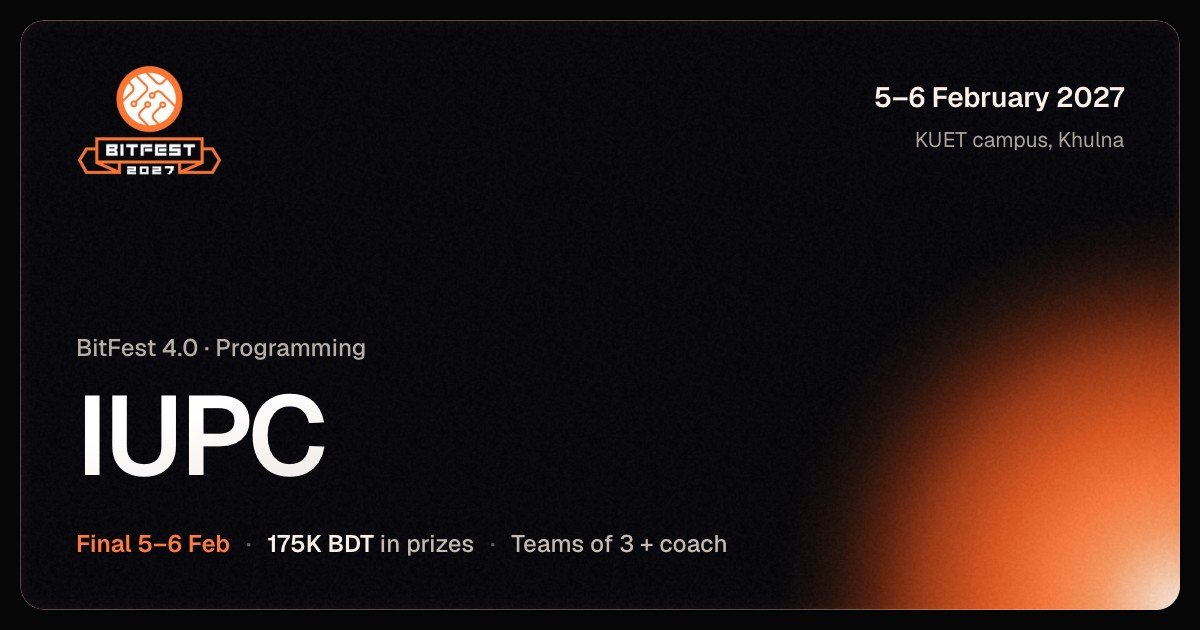
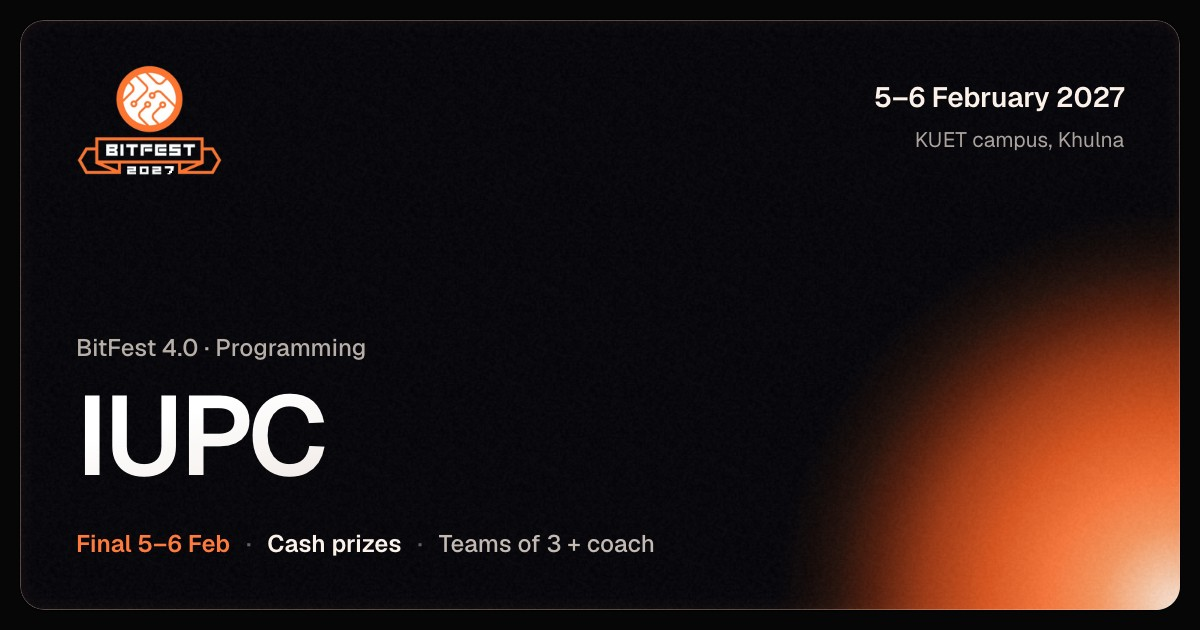
Contest names hover without linking, prize amounts show ?? until announced
- Two switches in lib/fest.ts. CONTEST_PAGES_LIVE (off): contest names in
  the hero pins, key dates, programme and footer keep their hover but go
  nowhere; contest pages stay out of search results and the sitemap.
  PRIZES_ANNOUNCED (off): every amount shows "??" and sentences say
  "cash prizes".
- Social preview cards re-rendered without prize figures.

Changed region(s): [[0.2158, 0.8444, 0.6167, 0.8746]]

diff --git a/components/home/schedule/ScheduleTraces.tsx b/components/home/schedule/ScheduleTraces.tsx
@@ -1,7 +1,8 @@
 "use client";
 
 import { useRef } from "react";
-import { eventHref, events, fest, isExternal, pad2, prizes, schedule } from "@/lib/fest";
+import { CONTEST_PAGES_LIVE, PRIZES_ANNOUNCED, events, fest, money, pad2, prizes, schedule } from "@/lib/fest";
+import ContestLink from "@/components/ui/ContestLink";
 import SectionHead from "../SectionHead";
 import { useActiveEvent } from "../heroes/variants/useActiveEvent";
 import { KIND_LABEL, dayLabel, detail, range } from "./data";
@@ -38,7 +39,7 @@ export default function ScheduleTraces() {
     <section ref={sec} id="schedule" className="relative scroll-mt-20 overflow-hidden py-20 md:py-36">
       <div aria-hidden className="hero-dots pointer-events-none absolute inset-0 opacity-60" />
       <div className="relative mx-auto flex max-w-[1440px] flex-col gap-16 px-6 md:px-14">
-        <SectionHead n="01" label="Key dates" title="Every road ends on campus" sub={`Registration runs from 30 November to 12 January, and online rounds from 13 to 22 January. Every final is on the KUET campus on 5 and 6 February, with ${fest.prizePool} BDT in prizes.`} />
+        <SectionHead n="01" label="Key dates" title="Every road ends on campus" sub={`Registration runs from 30 November to 12 January, and online rounds from 13 to 22 January. Every final is on the KUET campus on 5 and 6 February, ${PRIZES_ANNOUNCED ? `with ${fest.prizePool} BDT in prizes` : "with cash prizes in every contest"}.`} />
 
         {/* Desktop: the board. */}
         <div className="hidden lg:grid lg:grid-cols-[210px_minmax(0,1fr)_340px] lg:gap-0">
@@ -48,9 +49,8 @@ export default function ScheduleTraces() {
               const on = i === active;
               return (
                 <li key={ev.slug} className="absolute right-6 -translate-y-1/2 text-right" style={{ top: rowY(i) }}>
-                  <a
-                    href={eventHref(ev)}
-                    {...(isExternal(ev) ? { target: "_blank", rel: "noreferrer" } : {})}
+                  <ContestLink
+                    e={ev}
                     onPointerEnter={() => pick(i)}
                     onPointerLeave={() => pick(-1)}
                     onFocus={() => pick(i)}
@@ -59,7 +59,7 @@ export default function ScheduleTraces() {
                   >
                     <span className={`text-[12px] tabular-nums ${on ? "text-orange" : "text-dim"}`}>Pin {pad2(i + 1)} · {ev.kind}</span>
                     <span className={`text-[17px] font-semibold transition-colors duration-300 ${on ? "text-ink" : "text-muted"}`}>{ev.name}</span>
-                  </a>
+                  </ContestLink>
                 </li>
               );
             })}
@@ -136,7 +136,7 @@ export default function ScheduleTraces() {
                     </span>
                     <span className="flex flex-col gap-1">
                       <span className="text-[12px] font-medium text-[#f2e6dc]/65">Prize pool · BDT</span>
-                      <span className="text-[30px] font-semibold leading-none tracking-[-0.035em] tabular-nums text-[#ffb27a]">{prize?.total ? `${prize.total}K` : "TBA"}</span>
+                      <span className="text-[30px] font-semibold leading-none tracking-[-0.035em] tabular-nums text-[#ffb27a]">{prize?.total ? money(`${prize.total}K`) : "TBA"}</span>
                     </span>
                   </div>
                   <span className="text-[13px] tabular-nums text-[#f2e6dc]/70">Team {e.team} · {e.fee} · {e.onsite} onsite · {e.club}</span>
@@ -165,7 +165,7 @@ export default function ScheduleTraces() {
               </span>
               <span className="flex flex-col gap-1">
                 <span className="text-[12px] font-medium text-[#f2e6dc]/65">Prize pool</span>
-                <span className="text-[15px] font-semibold tabular-nums text-[#fbf1e9]">{fest.prizePool} BDT</span>
+                <span className="text-[15px] font-semibold tabular-nums text-[#fbf1e9]">{money(fest.prizePool)} BDT</span>
               </span>
             </span>
           </div>
@@ -173,14 +173,14 @@ export default function ScheduleTraces() {
         <ol className="-mt-6 flex flex-col lg:hidden">
           {events.map((ev) => (
             <li key={ev.slug} className="border-t border-line">
-              {/* Each row opens its contest's page. */}
-              <a href={eventHref(ev)} className="sched-row group flex flex-col gap-1.5 py-4">
+              {/* Each row opens its contest's page (once the pages are public; until then it only lights). */}
+              <ContestLink e={ev} className="sched-row group flex flex-col gap-1.5 py-4">
                 <span className="flex items-baseline justify-between gap-4">
                   <span className="flex items-center gap-2 text-[18px] font-semibold tracking-[-0.01em] transition-colors group-hover:text-orange">
                     {ev.name}
-                    <svg aria-hidden width="14" height="14" viewBox="0 0 16 16" className="shrink-0 text-dim transition-[color,transform] duration-300 group-hover:translate-x-0.5 group-hover:text-orange"><path d="M3 8h10M9 4l4 4-4 4" fill="none" stroke="currentColor" strokeWidth="1.6" /></svg>
+                    {CONTEST_PAGES_LIVE && <svg aria-hidden width="14" height="14" viewBox="0 0 16 16" className="shrink-0 text-dim transition-[color,transform] duration-300 group-hover:translate-x-0.5 group-hover:text-orange"><path d="M3 8h10M9 4l4 4-4 4" fill="none" stroke="currentColor" strokeWidth="1.6" /></svg>}
                   </span>
-                  <span className="shrink-0 text-[15px] font-semibold tabular-nums">{prizes[ev.slug]?.total ? `${prizes[ev.slug]!.total}K` : "TBA"} <span className="text-[12px] font-medium text-dim">BDT</span></span>
+                  <span className="shrink-0 text-[15px] font-semibold tabular-nums">{prizes[ev.slug]?.total ? money(`${prizes[ev.slug]!.total}K`) : "TBA"} <span className="text-[12px] font-medium text-dim">BDT</span></span>
                 </span>
                 {/* One quiet line: the online round when there is one, then the final. */}
                 <span className="text-[14px] tabular-nums text-muted">
@@ -191,7 +191,7 @@ export default function ScheduleTraces() {
                     <span key="final" className="text-orange">Final {range(m)}</span>
                   ))}
                 </span>
-              </a>
+              </ContestLink>
             </li>
           ))}
         </ol>

diff --git a/components/event/EventPrizes.tsx b/components/event/EventPrizes.tsx
@@ -6,6 +6,7 @@ import { ScrollTrigger } from "gsap/ScrollTrigger";
 import SectionHead from "@/components/ui/SectionHead";
 import { useCountUp, useInView } from "@/lib/hooks";
 import type { EventPage } from "@/lib/eventPages";
+import { PRIZES_ANNOUNCED } from "@/lib/fest";
 
 gsap.registerPlugin(ScrollTrigger);
 
@@ -16,7 +17,8 @@ gsap.registerPlugin(ScrollTrigger);
 const PLACES = ["Champion", "1st runner-up", "2nd runner-up"];
 
 function Total({ total, active }: { total: number; active: boolean }) {
-  const v = useCountUp(`${total}K`, active, 1400);
+  // "??" until prizes are announced (the count-up shows text as it is).
+  const v = useCountUp(PRIZES_ANNOUNCED ? `${total}K` : "??", active, 1400);
   return (
     <li data-lid className="lidx relative flex min-h-[300px] flex-col justify-between gap-12 rounded-[18px] p-7 md:col-span-3 md:min-h-[360px] md:p-10">
       <span className="podium-light lx lx-corner lx-tr lx-warm" style={{ width: "58%" }} />
@@ -27,14 +29,14 @@ function Total({ total, active }: { total: number; active: boolean }) {
           {v}
           <span className="ml-3 text-xl font-medium tracking-normal text-muted">BDT</span>
         </span>
-        <span className="max-w-[300px] text-[15px] leading-relaxed text-[#f2e6dc]/70 md:text-right">In cash. How it splits between the places comes with the rulebook.</span>
+        <span className="max-w-[300px] text-[15px] leading-relaxed text-[#f2e6dc]/70 md:text-right">{PRIZES_ANNOUNCED ? "In cash. How it splits between the places comes with the rulebook." : "In cash. The amount is announced with the rulebook."}</span>
       </div>
     </li>
   );
 }
 
 function Lid({ i, amount, active }: { i: number; amount: number; active: boolean }) {
-  const v = useCountUp(`${amount}K`, active, 1200);
+  const v = useCountUp(PRIZES_ANNOUNCED ? `${amount}K` : "??", active, 1200);
   const champ = i === 0;
   return (
     <li
@@ -82,7 +84,7 @@ export default function EventPrizes({ page }: { page: EventPage }) {
     <section id="prizes" className="relative scroll-mt-20 overflow-hidden py-20 md:py-36">
       <div aria-hidden className="hero-dots pointer-events-none absolute inset-0 opacity-50" />
       <div className="relative mx-auto flex max-w-[1440px] flex-col gap-16 px-6 md:px-14">
-        <SectionHead n="02" eyebrow="Prize money" title={page.prizes.places ? `BDT ${page.prizes.total},000 in prizes` : "Cash prizes for the best teams"} sub={page.prizes.note} />
+        <SectionHead n="02" eyebrow="Prize money" title={page.prizes.places && PRIZES_ANNOUNCED ? `BDT ${page.prizes.total},000 in prizes` : "Cash prizes for the best teams"} sub={page.prizes.note} />
         <ol
           ref={(el) => { ref.current = el; listRef.current = el; }}
           data-in={arrived}

diff --git a/components/home/heroes/HeroPinout.tsx b/components/home/heroes/HeroPinout.tsx
@@ -1,7 +1,8 @@
 "use client";
 
 import { useEffect, useRef, useState } from "react";
-import { eventHref, events, fest, isExternal, pad2 } from "@/lib/fest";
+import { events, fest, money, pad2 } from "@/lib/fest";
+import ContestLink from "@/components/ui/ContestLink";
 import { HeroActions } from "./shared";
 import ChipGlow, { type GlowId } from "./ChipGlow";
 import WarmLight from "./rebrand/WarmLight";
@@ -225,9 +226,8 @@ export default function HeroPinout({ glow = "orbit", seat = "float", lid = "meta
                     className="hero-in absolute -translate-y-1/2"
                     style={{ animationDelay: `${0.4 + (i % PER) * 0.06}s`, top: yOf(EV_IDX[i % PER]), ...(left ? { right: "calc(100% + var(--pin) + var(--lead) + 14px)" } : { left: "calc(100% + var(--pin) + var(--lead) + 14px)" }) }}
                   >
-                    <a
-                      href={eventHref(e)}
-                      {...(isExternal(e) ? { target: "_blank", rel: "noreferrer" } : {})}
+                    <ContestLink
+                      e={e}
                       onPointerEnter={() => pick(i)}
                       onPointerLeave={() => pick(-1)}
                       onFocus={() => pick(i)}
@@ -236,10 +236,10 @@ export default function HeroPinout({ glow = "orbit", seat = "float", lid = "meta
                     >
                       <span className="text-[12px] tabular-nums">
                         <span className={on ? "text-orange" : "text-dim"}>Pin {pad2(i + 1)}</span>
-                        <span className="text-dim"> · {on ? `${e.day} · ${e.pool === "TBA" ? "Prizes TBA" : `${e.pool} BDT`}` : e.kind}</span>
+                        <span className="text-dim"> · {on ? `${e.day} · ${money(e.pool)} BDT` : e.kind}</span>
                       </span>
                       <span className={`text-[17px] font-semibold transition-colors ${on ? "text-ink" : "text-muted"}`}>{e.name}</span>
-                    </a>
+                    </ContestLink>
                   </li>
                 );
               })}

diff --git a/components/home/HomeFooter.tsx b/components/home/HomeFooter.tsx
@@ -1,7 +1,7 @@
 "use client";
 
 import { useEffect, useRef } from "react";
-import { eventHref, events, fest, isExternal } from "@/lib/fest";
+import { CONTEST_PAGES_LIVE, eventHref, events, fest, isExternal } from "@/lib/fest";
 import TraceWordmark from "./TraceWordmark";
 import BottomLight from "./heroes/BottomLight";
 
@@ -53,7 +53,8 @@ export default function HomeFooter() {
 
   const cols = [
     { h: "Fest", l: [["Key dates", "/#schedule"], ["Programme", "/#programme"], ["Gallery", "/#gallery"], ["Partners", "/#partners"], ["FAQ", "/#faq"]] },
-    { h: "Contests", l: events.map((e) => [e.name, eventHref(e), isExternal(e) ? "ext" : ""]) },
+    // Contest names link to their pages once those are public; until then they only light on hover.
+    { h: "Contests", l: events.map((e) => [e.name, CONTEST_PAGES_LIVE ? eventHref(e) : "", isExternal(e) ? "ext" : ""]) },
     { h: "Contact", l: [[fest.email, `mailto:${fest.email}`, ""], [fest.phone, `tel:${fest.phone.replace(/[^+\d]/g, "")}`, ""], ["Facebook", fest.facebook, "ext"], ["KUET, Khulna 9203", "https://www.kuet.ac.bd", "ext"]] },
   ];
   return (
@@ -75,10 +76,12 @@ export default function HomeFooter() {
             {cols.map((c) => (
               <nav key={c.h} aria-label={c.h} className="flex flex-col gap-0.5 md:gap-1">
                 <span className="mb-1 text-[13px] font-medium text-dim">{c.h}</span>
-                {c.l.map(([t, h, ext]) => (
+                {c.l.map(([t, h, ext]) => h ? (
                   <a key={t} href={h} {...(ext ? { target: "_blank", rel: "noreferrer" } : {})} className="w-fit py-2 text-[15px] text-soft transition-colors hover:text-ink md:py-1">
                     {t}
                   </a>
+                ) : (
+                  <span key={t} className="w-fit py-2 text-[15px] text-soft transition-colors hover:text-ink md:py-1">{t}</span>
                 ))}
               </nav>
             ))}

diff --git a/lib/fest.ts b/lib/fest.ts
@@ -58,6 +58,17 @@ export const pad2 = (n: number) => String(n).padStart(2, "0");
 /** Every contest now has its own page; the 2025 pages stay mapped for any contest set back to "#". */
 const OLD: Record<string, string> = { iupc: "iupc", "ai-hackathon": "hackathon", lfr: "lfr", "project-showcase": "project-showcase", gaming: "gaming", "it-case": "it-case" };
 export const oldSite = (slug: string) => (OLD[slug] ? `https://bitfest2025.netlify.app/${OLD[slug]}` : "/#schedule");
+/** Contest pages are not public yet: contest names keep their hover but do not link anywhere. Set to
+    true when the pages are ready and every contest name links to its page again. */
+export const CONTEST_PAGES_LIVE = false;
+/** Prize money is not announced yet: every amount shows as "??" and sentences say "cash prizes".
+    Set to true to show the figures again. */
+export const PRIZES_ANNOUNCED = false;
+/** A prize amount ready to show ("175K"), or "??" until prizes are announced. */
+export const money = (amount: string) => (PRIZES_ANNOUNCED ? amount : "??");
+/** The fest in one line, for search results and link previews. */
+export const festDescription = `Ten national competitions in programming, AI, data science, research, robotics, cybersecurity, business and esports. ${fest.dates} at KUET, Khulna. ${PRIZES_ANNOUNCED ? `${fest.prizePool} BDT in prizes.` : "Cash prizes in every contest."}`;
+
 export const eventHref = (e: FestEvent) => (e.href !== "#" ? e.href : oldSite(e.slug));
 export const isExternal = (e: FestEvent) => e.href === "#" && Boolean(OLD[e.slug]);
 

diff --git a/components/home/Programme.tsx b/components/home/Programme.tsx
@@ -3,7 +3,8 @@
 import { useEffect, useRef, useState } from "react";
 import { gsap } from "gsap";
 import { ScrollTrigger } from "gsap/ScrollTrigger";
-import { eventHref, events, isExternal } from "@/lib/fest";
+import { events } from "@/lib/fest";
+import ContestLink from "@/components/ui/ContestLink";
 import SectionHead from "./SectionHead";
 
 gsap.registerPlugin(ScrollTrigger);
@@ -128,13 +129,13 @@ export default function Programme() {
                       }
                       return (
                         <li key={slug + what}>
-                          <a href={eventHref(e)} {...(isExternal(e) ? { target: "_blank", rel: "noreferrer" } : {})} className="group flex items-baseline justify-between gap-3 border-t border-[rgba(255,214,190,0.1)] pt-3">
+                          <ContestLink e={e} className="group flex items-baseline justify-between gap-3 border-t border-[rgba(255,214,190,0.1)] pt-3">
                             <span className="flex flex-col">
                               <span className="font-semibold text-[#fbf1e9] transition-colors group-hover:text-orange">{e.name}</span>
                               <span className="text-[14px] text-[#f2e6dc]/60">{what}</span>
                             </span>
                             <span className="shrink-0 text-[14px] tabular-nums text-[#f2e6dc]/80">{when}</span>
-                          </a>
+                          </ContestLink>
                         </li>
                       );
                     })}

diff --git a/app/events/[slug]/page.tsx b/app/events/[slug]/page.tsx
@@ -2,7 +2,7 @@ import type { ComponentType } from "react";
 import type { Metadata } from "next";
 import { notFound } from "next/navigation";
 import EventPageLayout from "@/components/event/EventPageLayout";
-import { events, fest } from "@/lib/fest";
+import { events, fest, CONTEST_PAGES_LIVE } from "@/lib/fest";
 import { eventPages } from "@/lib/eventPages";
 import IupcHero from "@/components/contests/IupcHero";
 import AiHackathonHero from "@/components/contests/AiHackathonHero";
@@ -47,6 +47,8 @@ export async function generateMetadata({ params }: { params: Promise<{ slug: str
     title,
     description: page.description,
     alternates: { canonical: `/events/${slug}` },
+    // Kept out of search results until the contest pages are public.
+    ...(CONTEST_PAGES_LIVE ? {} : { robots: { index: false, follow: false } }),
     openGraph: { type: "website", siteName: `${fest.name} ${fest.year}`, title, description: page.description, url: `/events/${slug}`, images: [image] },
     twitter: { card: "summary_large_image", title, description: page.description, images: [image.url] },
   };

diff --git a/app/page.tsx b/app/page.tsx
@@ -1,7 +1,7 @@
 import type { Metadata } from "next";
 import HomePage from "@/components/home/HomePage";
 import HeroPinout from "@/components/home/heroes/HeroPinout";
-import { events } from "@/lib/fest";
+import { CONTEST_PAGES_LIVE, events, festDescription } from "@/lib/fest";
 
 const SITE = "https://kuetbitfest2027.com";
 const kuet = {
@@ -35,15 +35,14 @@ const festJsonLd = {
     eventAttendanceMode: "https://schema.org/OfflineEventAttendanceMode",
     location: kuet,
     image: [`${SITE}/og/${e.slug}.jpg`],
-    url: `${SITE}/events/${e.slug}`,
+    url: CONTEST_PAGES_LIVE ? `${SITE}/events/${e.slug}` : SITE,
     organizer,
   })),
 };
 
 export const metadata: Metadata = {
   title: "BitFest 4.0 — 4th KUET CSE National Fest",
-  description:
-    "Ten national competitions in programming, AI, data science, research, robotics, cybersecurity, business and esports. 5–6 February 2027 at KUET, Khulna. 700K BDT in prizes.",
+  description: festDescription,
   alternates: { canonical: "/" },
 };
 

diff --git a/lib/faqs.ts b/lib/faqs.ts
@@ -2,7 +2,7 @@
 // come from its page content (lib/eventPages). The home FAQ shows them all under topic chips; a
 // contest page shows its own questions first, then the general ones.
 import { eventPages } from "./eventPages";
-import { events } from "./fest";
+import { events, PRIZES_ANNOUNCED } from "./fest";
 
 export type Faq = { q: string; a: string; topic: string };
 
@@ -27,7 +27,9 @@ const general: { q: string; a: string }[] = [
   },
   {
     q: "What can we win?",
-    a: "BDT 7,00,000 in cash prizes across the ten competitions, from BDT 35,000 for 3 Minute Thesis to BDT 1,75,000 for IUPC.",
+    a: PRIZES_ANNOUNCED
+      ? "BDT 7,00,000 in cash prizes across the ten competitions, from BDT 35,000 for 3 Minute Thesis to BDT 1,75,000 for IUPC."
+      : "Cash prizes in all ten competitions. The amounts are announced soon, with each contest's rulebook.",
   },
   {
     q: "Who organises BitFest?",

diff --git a/app/layout.tsx b/app/layout.tsx
@@ -2,12 +2,12 @@ import type { Metadata, Viewport } from "next";
 import { Geist } from "next/font/google";
 import "./globals.css";
 import SmoothScroll from "@/components/ui/SmoothScroll";
+import { festDescription } from "@/lib/fest";
 
 const geist = Geist({ subsets: ["latin"], variable: "--font-geist" });
 
 const title = "BitFest 4.0 — 4th KUET CSE National Fest";
-const description =
-  "Ten national competitions in programming, AI, data science, research, robotics, cybersecurity, business and esports. 5–6 February 2027 at KUET, Khulna. 700K BDT in prizes.";
+const description = festDescription;
 
 // Social previews and canonicals need absolute URLs. NEXT_PUBLIC_SITE_URL overrides the production domain.
 const siteUrl = process.env.NEXT_PUBLIC_SITE_URL ?? "https://kuetbitfest2027.com";

diff --git a/components/ui/ContestLink.tsx b/components/ui/ContestLink.tsx
@@ -1,0 +1,15 @@
+import type { HTMLAttributes, ReactNode } from "react";
+import { CONTEST_PAGES_LIVE, eventHref, isExternal, type FestEvent } from "@/lib/fest";
+
+/** A contest's name as a link to its page. While the pages are not public (CONTEST_PAGES_LIVE is
+    false) it renders the same element with the same classes and hover, but goes nowhere. */
+export default function ContestLink({ e, className, children, ...rest }: { e: FestEvent; className?: string; children: ReactNode } & HTMLAttributes<HTMLElement>) {
+  if (!CONTEST_PAGES_LIVE) {
+    return <span className={className} {...rest}>{children}</span>;
+  }
+  return (
+    <a href={eventHref(e)} {...(isExternal(e) ? { target: "_blank", rel: "noreferrer" } : {})} className={className} {...rest}>
+      {children}
+    </a>
+  );
+}

diff --git a/app/sitemap.ts b/app/sitemap.ts
@@ -1,5 +1,5 @@
 import type { MetadataRoute } from "next";
-import { events } from "@/lib/fest";
+import { CONTEST_PAGES_LIVE, events } from "@/lib/fest";
 
 export const dynamic = "force-static";
 
@@ -9,7 +9,8 @@ export default function sitemap(): MetadataRoute.Sitemap {
   const now = new Date();
   return [
     { url: SITE, lastModified: now, changeFrequency: "weekly", priority: 1 },
-    ...events.map((e) => ({
+    // Contest pages join the sitemap once they are public (nothing links to them before that).
+    ...(CONTEST_PAGES_LIVE ? events : []).map((e) => ({
       url: `${SITE}/events/${e.slug}`,
       lastModified: now,
       changeFrequency: "weekly" as const,
